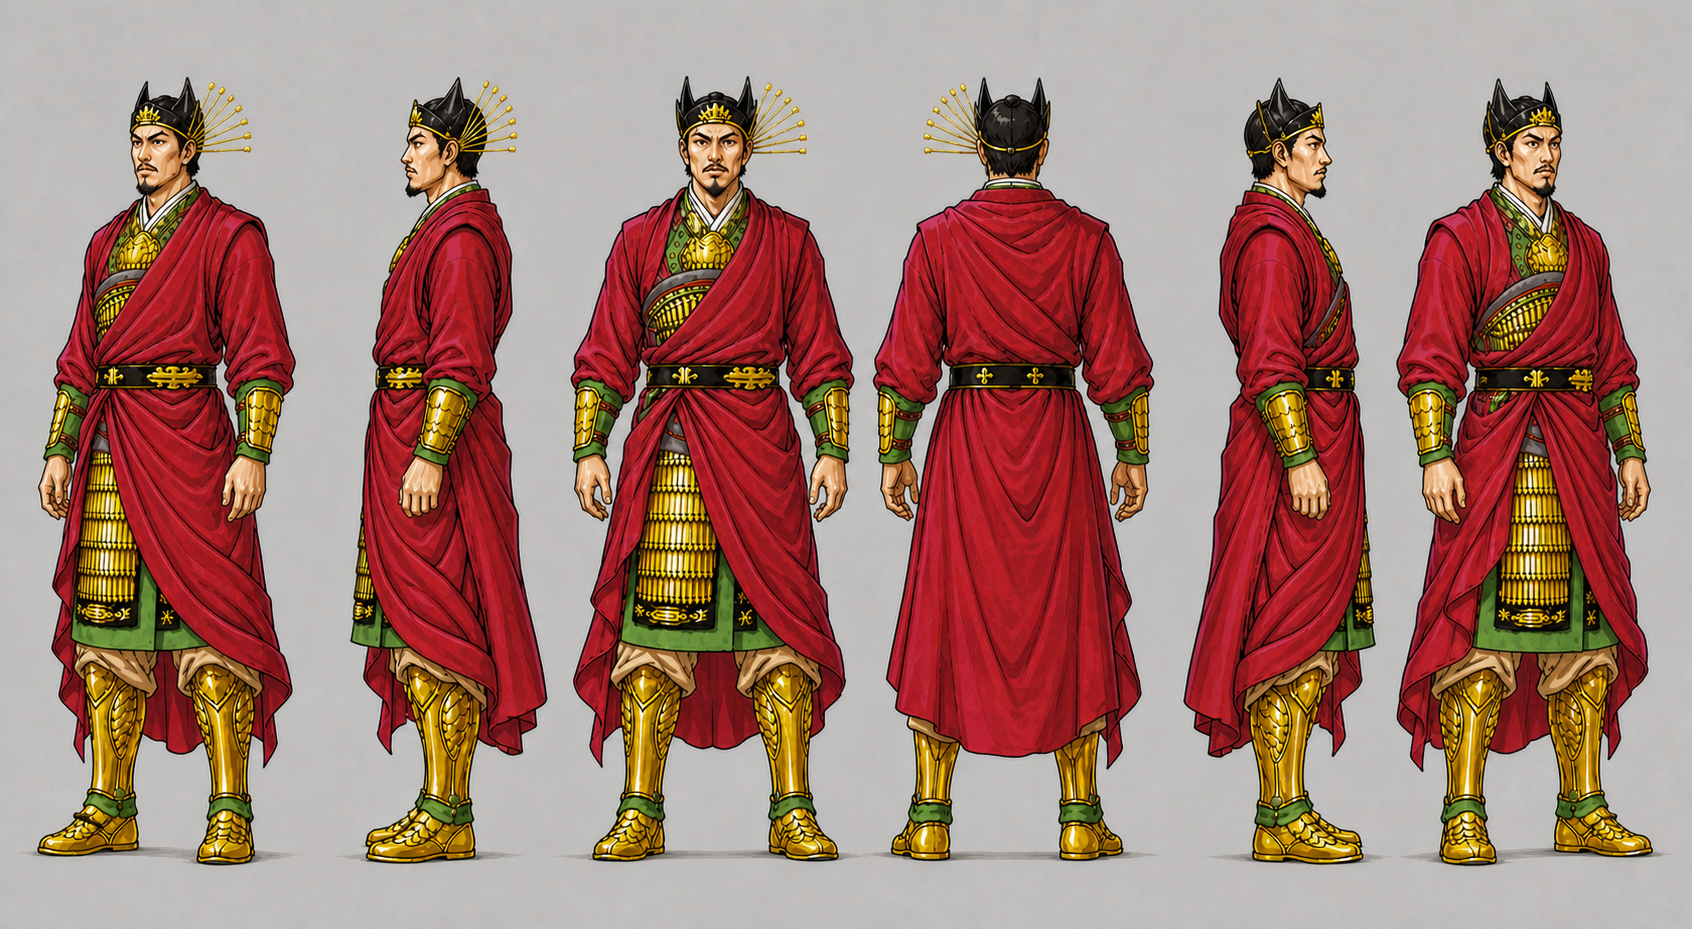
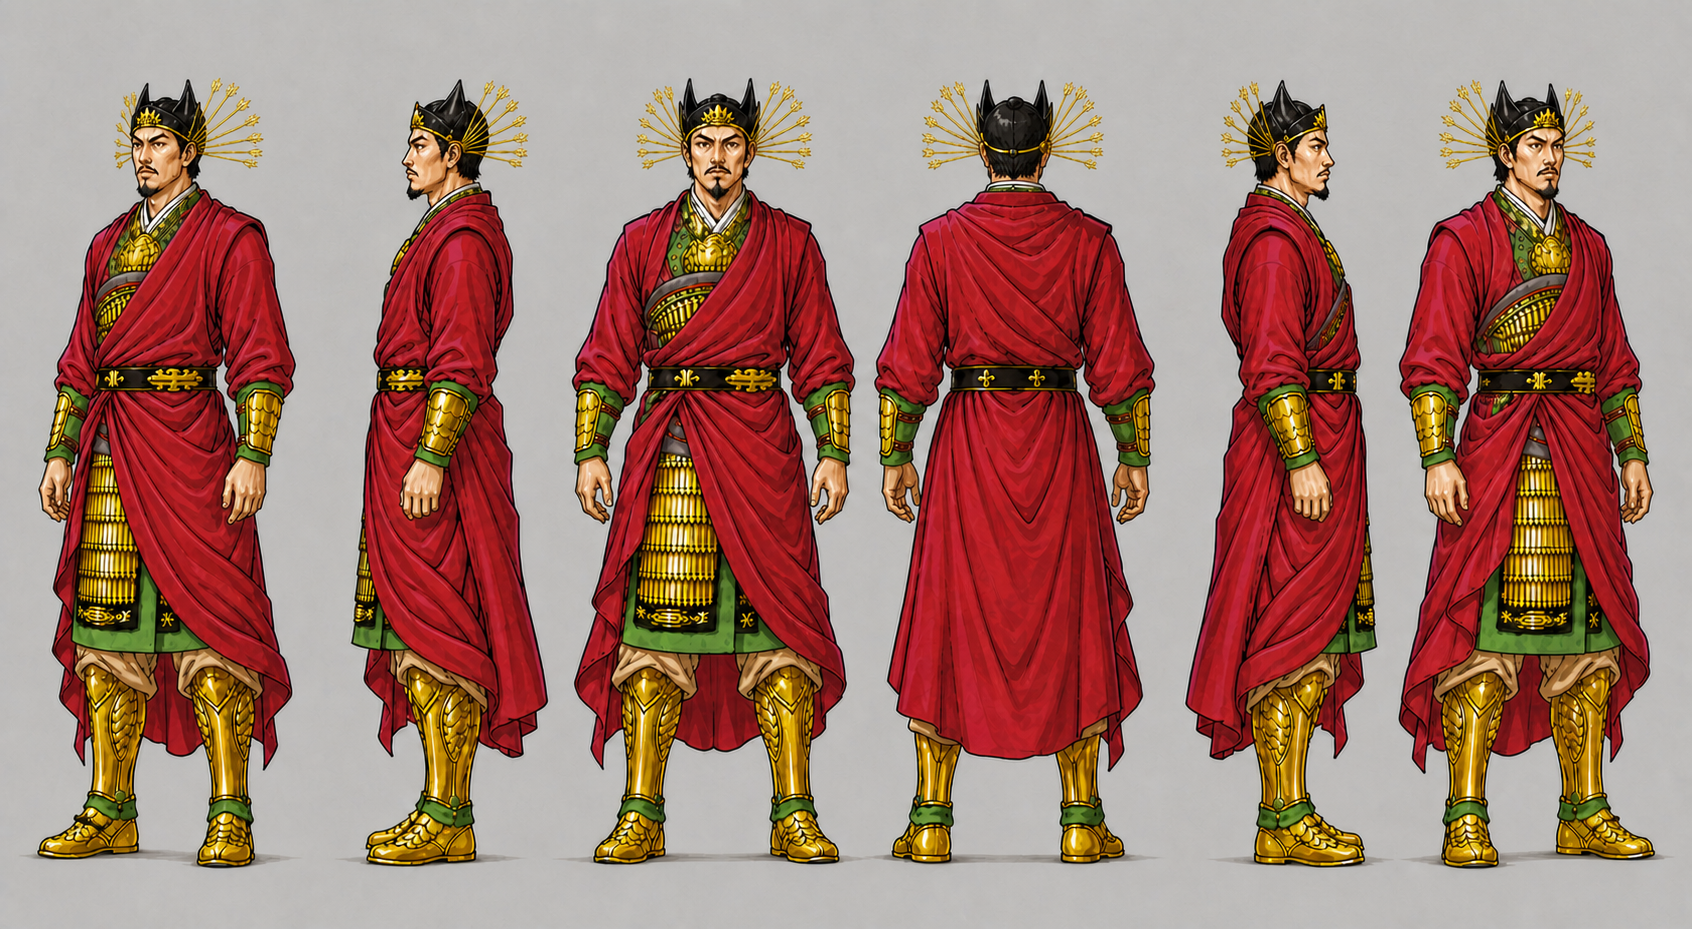
fix(角色001): 修正头饰对称结构与多视图表现
依据原图放大细节，将冠后簪饰修正为左右各 8 根并采用非圆球异形端头。\n\n同步更新头部四视图、全身六视图、角色规格、返修提示与复核记录，并保留返修前版本。

Changed region(s): [[0.1844, 0.0936, 0.9835, 0.9365], [0.0, 0.0936, 0.1844, 0.9365]]

diff --git a/character-model-sheets/characters/001/review-notes.md b/character-model-sheets/characters/001/review-notes.md
@@ -6,12 +6,26 @@
 - 固定顺序：基于左面逆时针转45度、左面、正面、背面、右面、基于右面顺时针转45度。
 - 相对视角检查：第一列由左面基准转出，第六列由右面基准转出；两列近侧脸颊、肩膀、胸甲透视和肢体遮挡相反，未复用或水平翻转。
 - 身份一致性：窄长威严脸、细上髭、尖山羊胡、角翼礼冠、红袍、金绿甲胄与黑金腰带跨视角保持一致。
-- 非对称锚点：放射金杆只固定在角色自身左后冠；正面位于画面右侧，背面位于画面左侧，右面和基于右面顺时针转45度按远侧关系遮挡，未复制到另一侧。
+- 礼冠纠正：用户依据放大原图确认簪状冠饰左右对称、每侧 8 根、簪头不是圆球；此前单侧非对称判定作废，当前人物六视图已同步返修。
 - 独立实体：沿用已完成的 `weapon-sheet.png`；人物六视图不持白色长条道具，以免遮挡服装。
-- 版本保留：旧五视图现版为 `character-turnaround-v2.png`；更早的双侧金杆错误版为 `character-turnaround-v1.png`。
+- 版本保留：本次返修前的单侧圆球端头六视图保留为 `character-turnaround-v3.png`；`character-turnaround-v1.png`、`character-turnaround-v2.png` 仅作更早期历史参考。
 - 未生成：坐骑、宠物；原图无视觉证据。
-- 仍需确认：白色长条道具的准确类别名称；冠后金杆是否本应左右对称。当前继续按原图单侧可见证据处理。
+- 仍需确认：白色长条道具的准确类别名称。冠后簪状冠饰的左右关系、每侧数量与端头类型已经由用户确认。
 
 ## 验收结论
 
-未见多余肢体、重复武器、融合道具、文字乱码或场景残留。背面红袍闭合、腰带背扣与不可见甲片数量属于已记录的克制推断，不宣称为原作事实。
+未见多余肢体、重复武器、融合道具、文字乱码或场景残留。六视图冠饰已统一为左右对称的 8 对异形簪头结构；正面与背面显示双侧，左右侧面和两个相对 45 度视图遵守近远侧遮挡。背面红袍闭合、腰带背扣与不可见甲片数量属于已记录的克制推断，不宣称为原作事实。
+
+## 头部设定表
+
+- 日期：2026-08-21。
+- 当前头部表：`head-sheet.png`；生成提示：`head-prompt.txt`。
+- 固定顺序：正面、背面、角色自身左侧面、角色自身右侧面。
+- 四张保持同一颅骨体积、脸型、颈宽、裁切、中立表情与光照；左右侧面来自不同解剖侧，未复制或水平翻转。
+- 身份一致性：窄长椭圆脸、浓直眉、细长上髭、短颌须和尖山羊胡在三个可见面部视角中保持一致。
+- 对称结构：角色自身左右后冠各固定 8 根簪状冠饰，共 8 对；每对长度、间距、角度和端头形状左右对应。
+- 端头纠正：按用户提供的放大原图采用扁平异形簪头，严禁圆球、珠子或圆点端头。
+- 返修记录：首轮对称化漏掉角色右侧面的近侧 8 根，未通过；第二轮只补绘第四列右侧面，前三列与其他头部特征保持不变。
+- 版本记录：旧六列头部表保留为 `head-sheet-v1.png`；上一版单侧圆球端头四视图保留为 `head-sheet-v2.png`，均不再作为当前交付。
+- 未确认部分：原画未展示冠饰在后脑的具体固定件，只采用无额外纹饰的克制功能性连接，不宣称为原作事实。
+- 状态：`generated`，等待用户确认后再标记为 `approved`。
